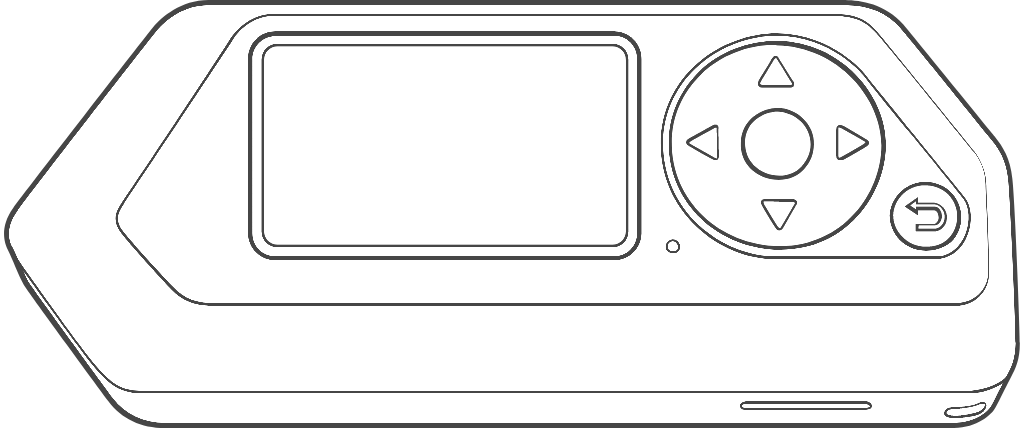
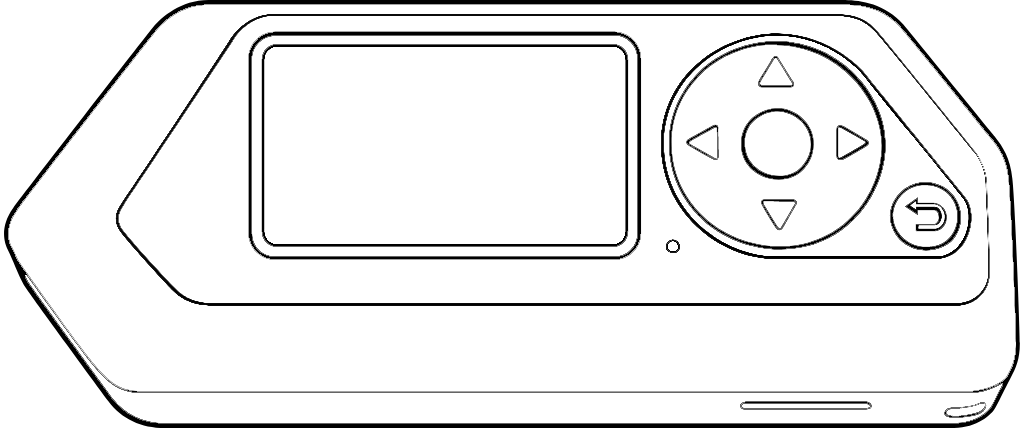
Move release files to the bottom of the page (sticky)
- Removed the white from the flipper line image

diff --git a/.vitepress/theme/components/ReleaseContent.vue b/.vitepress/theme/components/ReleaseContent.vue
@@ -2,13 +2,10 @@
 import MarkdownIt from "markdown-it";
 import { computed } from "vue";
 import type { ReleaseItem } from "../../../_data/releases";
-import { useI18n } from "../composables/useI18n";
 import { replaceIssuesAndMentions } from "../util";
 
 import ReleaseFiles from "./ReleaseFiles.vue";
 import ReleaseHeader from "./ReleaseHeader.vue";
-
-const { tr } = useI18n();
 
 const md = new MarkdownIt({
     html: true,
@@ -41,33 +38,31 @@ const handleSelectRelease = (release: ReleaseItem) => {
 <template>
     <main
         v-if="selectedRelease"
-        class="release-content flex-1 col-span-5 lg:col-span-3 pb-2 rounded-xl border border-vp-divider overflow-clip"
+        class="relative flex-1 col-span-5 lg:col-span-3 lg:pb-16 rounded-[10px] overflow-clip"
     >
-        <ReleaseHeader
-            :selected-release="selectedRelease"
-            :is-current-version="props.isCurrentVersion"
-            @select-release="handleSelectRelease"
-        />
+        <div class="border border-vp-divider rounded-[10px] overflow-clip pb-3">
+            <ReleaseHeader
+                :selected-release="selectedRelease"
+                :is-current-version="props.isCurrentVersion"
+                @select-release="handleSelectRelease"
+            />
 
-        <ReleaseFiles
-            :selected-release="selectedRelease"
-            :is-current-version="props.isCurrentVersion"
-        />
-
-        <div
-            v-if="selectedRelease.changelog"
-            class="mb-8 px-6 sm:px-10 prose prose-gray dark:prose-invert max-w-none"
-        >
             <div
-                class="flex flex-row justify-between items-center pb-2 mb-3 border-b border-vp-divider"
+                v-if="selectedRelease.changelog"
+                class="release-content mb-10 px-6 sm:px-8 prose prose-gray dark:prose-invert max-w-full pt-6"
             >
-                <span
-                    class="text-vp-1 text-[13px] font-semibold py-1 leading-6 tracking-wide uppercase"
-                    >{{ tr("releases_changelog") }}</span
-                >
+                <div class="prose prose-sm dark:prose-invert text-vp-1 max-w-full -mt-6">
+                    <span v-html="parsedChangelog"></span>
+                </div>
             </div>
-            <div class="prose prose-sm dark:prose-invert text-vp-1 max-w-none">
-                <span v-html="parsedChangelog"></span>
+
+            <div class="h-px border-b border-vp-border w-auto mx-6 sm:mx-8"></div>
+
+            <div class="max-w-none files-container lg:sticky lg:bottom-0 -mt-16">
+                <ReleaseFiles
+                    :selected-release="selectedRelease"
+                    :is-current-version="props.isCurrentVersion"
+                />
             </div>
         </div>
     </main>
@@ -81,6 +76,17 @@ const handleSelectRelease = (release: ReleaseItem) => {
 .dark .shadow {
     opacity: 0.25;
 }
+
+.files-container {
+    background-image: linear-gradient(
+        to top,
+        color-mix(in srgb, var(--vp-c-bg-dark) 100%, transparent) 0%,
+        /* color-mix(in srgb, var(--vp-c-bg-dark) 98%, transparent) 50%, */
+            color-mix(in srgb, var(--vp-c-bg-dark) 97%, transparent) 75%,
+        color-mix(in srgb, var(--vp-c-bg-dark) 0%, transparent) 100%
+    );
+}
+
 .release-content {
     position: relative;
     background-color: transparent;
@@ -96,7 +102,7 @@ const handleSelectRelease = (release: ReleaseItem) => {
     background-image: linear-gradient(
         to bottom,
         color-mix(in srgb, var(--vp-c-text-1) 1%, transparent) 0%,
-        color-mix(in srgb, var(--vp-c-bg-soft) 0%, transparent) 100%
+        color-mix(in srgb, var(--vp-c-bg-dark) 0%, transparent) 100%
     );
 }
 

diff --git a/.vitepress/theme/components/ReleaseHeader.vue b/.vitepress/theme/components/ReleaseHeader.vue
@@ -96,10 +96,12 @@ onBeforeUnmount(() => {
 </script>
 
 <template>
-    <div class="flex flex-col pt-0 pb-4 md:pb-8 z-[2] sticky top-[47px] sm:top-11 lg:top-[65px]">
+    <div
+        class="flex flex-col pt-0 z-[2] sticky top-[47px] sm:top-11 lg:top-[64px] bg-vp-dark lg:bg-vp-dark/85 lg:backdrop-blur-md rounded-t-[10px] border-b border-vp-divider"
+    >
         <div ref="dropdownRef" class="relative">
             <div
-                class="dark-blur flex flex-row justify-between items-center border-b border-solid sm:border-b border-vp-divider overflow-hidden px-3 py-2 transition-all duration-200 sm:shadow-sm z-[1000] cursor-pointer min-h-14"
+                class="flex flex-row justify-between items-center overflow-hidden px-3 py-2 transition-all duration-200 sm:shadow-sm z-[1000] cursor-pointer min-h-14"
                 :class="{
                     'md:cursor-pointer': !isDropdownOpen,
                     'sm:rounded-tl-lg sm:rounded-tr-lg': isDropdownOpen,
@@ -134,7 +136,7 @@ onBeforeUnmount(() => {
                 </div>
                 <div class="flex flex-row items-center gap-2">
                     <div
-                        class="flex items-center gap-4 text-sm text-vp-2 rounded-md bg-vp-neutral/[1%] px-2.5 py-1 border border-vp-divider/70 backdrop-blur-sm"
+                        class="flex items-center gap-4 text-sm text-vp-1/80 rounded-md bg-vp-neutral/[1%] px-2.5 py-1 border border-vp-divider/70 backdrop-blur-sm"
                     >
                         <span>{{ selectedRelease?.date }}</span>
                     </div>
@@ -144,10 +146,10 @@ onBeforeUnmount(() => {
             <Transition name="fade-dropdown">
                 <div
                     v-if="isDropdownOpen"
-                    class="lg:hidden absolute top-full left-0 w-full -z-[1] p-[7px] bg-vp-dark shadow-[var(--vp-shadow-3)] backdrop-blur-md border-b border-vp-divider"
+                    class="lg:hidden absolute top-full left-0 w-full z-[1000] p-[7px] bg-vp-dark shadow-[var(--vp-shadow-3)] backdrop-blur-md border-b border-vp-divider"
                 >
                     <div
-                        class="bg-transparent transition-all duration-200 overflow-hidden max-h-[275px] flex flex-col w-full min-w-full"
+                        class="bg-transparent transition-all duration-200 overflow-hidden max-h-[276px] flex flex-col w-full min-w-full"
                         :class="{ 'is-visible': isDropdownOpen }"
                     >
                         <div
@@ -201,16 +203,6 @@ onBeforeUnmount(() => {
 </template>
 
 <style scoped>
-.dark-blur {
-    background-color: color-mix(in srgb, var(--vp-c-bg-elv) 95%, transparent) !important;
-    backdrop-filter: blur(10px) !important;
-}
-
-.dark .dark-blur {
-    background-color: color-mix(in srgb, var(--vp-c-bg-dark) 95%, transparent) !important;
-    backdrop-filter: blur(10px) !important;
-}
-
 .dropdown-menu.is-visible {
     transform: translateY(0);
 }

diff --git a/.vitepress/theme/components/ReleaseFiles.vue b/.vitepress/theme/components/ReleaseFiles.vue
@@ -103,7 +103,7 @@ watch(
 </script>
 
 <template>
-    <div v-if="selectedRelease?.files" class="md:mb-4 px-6 sm:px-10">
+    <div v-if="selectedRelease?.files" class="px-6 sm:px-8 pt-24 pb-3">
         <div
             class="flex flex-row justify-start items-end gap-1.5 pb-2 mb-3 border-b border-vp-divider"
         >
@@ -202,11 +202,11 @@ watch(
             >
                 <template v-for="method in installMethods" :key="method.name">
                     <a
-                        v-if="method.show"
                         :href="method.href"
                         target="_blank"
                         rel="noopener"
-                        class="text-vp-2 sm:text-vp-1 sm:hover:text-vp-2 transition-colors duration-100 no-underline font-medium vp-external-link-icon whitespace-nowrap sm:py-1 sm:pl-3 sm:pr-2.5 sm:border sm:border-vp-divider sm:rounded-full sm:hover:border-vp-brand-1 sm:hover:bg-vp-soft/55"
+                        class="install-method-btn text-vp-2 sm:text-vp-1 sm:hover:text-vp-2 transition-all duration-100 no-underline font-medium vp-external-link-icon whitespace-nowrap sm:py-1 sm:pl-3 sm:pr-2.5 sm:border sm:border-vp-divider sm:rounded-full sm:hover:border-vp-brand-1 sm:hover:bg-vp-soft/55"
+                        :class="{ 'install-method-btn-visible': method.show }"
                     >
                         {{ method.name }}
                     </a>
@@ -224,6 +224,21 @@ watch(
     align-items: center;
     justify-content: center;
     cursor: default !important;
+}
+
+.install-method-btn {
+    opacity: 0;
+    visibility: hidden;
+    position: absolute;
+    pointer-events: none;
+    transition: all 0.3s ease-in-out;
+}
+
+.install-method-btn-visible {
+    opacity: 1;
+    visibility: visible;
+    position: relative;
+    pointer-events: auto;
 }
 
 .dev-files-enter-active,

diff --git a/.vitepress/theme/components/UpdaterDeviceInfo.vue b/.vitepress/theme/components/UpdaterDeviceInfo.vue
@@ -290,7 +290,7 @@ const deviceSections = computed(() => {
 
 <template>
     <div
-        class="device-info-container lg:rounded-tl-xl lg:rounded-bl-xl border-t border-b lg:border border-transparent max-h-[calc(49vh-var(--vp-nav-height))] lg:max-h-full h-full flex flex-col w-full min-w-0 max-w-full overflow-hidden sticky top-[calc(var(--vp-nav-height)+24px)] transition-all duration-200 ease-in-out lg:py-0 bg-vp-dark/55 backdrop-blur-md"
+        class="device-info-container lg:rounded-tl-xl lg:rounded-bl-xl border-t border-b lg:border border-transparent max-h-[calc(49vh-var(--vp-nav-height))] lg:max-h-full h-full flex flex-col w-full min-w-0 max-w-full overflow-hidden sticky top-[calc(var(--vp-nav-height)+24px)] transition-all duration-200 ease-in-out lg:py-0 bg-vp-dark/95"
         :class="{
             '!border !border-vp-brand-1 box-border': isInstallButtonHovered,
             'py-8 pb-12': !isConnected,
@@ -459,7 +459,7 @@ const deviceSections = computed(() => {
     background-size: contain;
     background-position: center;
     background-repeat: no-repeat;
-    opacity: 0.085;
+    opacity: 0.065;
     filter: saturate(0);
     mix-blend-mode: lighten;
     z-index: -1;
@@ -467,7 +467,7 @@ const deviceSections = computed(() => {
 }
 
 .dark .device-info-container:before {
-    opacity: 0.045;
+    opacity: 0.03;
     filter: saturate(0) invert(1);
 }
 
@@ -476,10 +476,10 @@ const deviceSections = computed(() => {
 }
 
 .device-info-container[data-hovered="true"]:before {
-    opacity: 0.15;
+    opacity: 0.095;
 }
 .dark .device-info-container[data-hovered="true"]:before {
-    opacity: 0.055;
+    opacity: 0.035;
 }
 
 .device-info-container:after {

diff --git a/.vitepress/theme/components/UpdaterChangelog.vue b/.vitepress/theme/components/UpdaterChangelog.vue
@@ -104,7 +104,7 @@ const releaseHref = computed(() => {
 
 <template>
     <div
-        class="changelog-content rounded-xl group mx-5"
+        class="changelog-content rounded-[10px] group mx-5"
         :class="{
             'max-h-[calc(100vh-var(--vp-nav-height)-24px)]': windowWidth < 1024,
             'h-auto': isClosed,
@@ -112,7 +112,7 @@ const releaseHref = computed(() => {
         }"
     >
         <div
-            class="border rounded-xl border-vp-divider bg-vp-dark/90 flex flex-col overflow-hidden relative dark:bg-neutral-950/80 mb-5"
+            class="border rounded-[10px] border-vp-divider bg-vp-elv/95 flex flex-col overflow-hidden relative mb-5"
             :class="{
                 'changelog-expanded mt-5': isExpanded,
                 'flex-1': !isClosed,
@@ -191,11 +191,11 @@ const releaseHref = computed(() => {
             </div>
 
             <div
-                class="absolute top-14 left-0 right-0 h-20 bg-gradient-to-b from-vp-dark dark:from-neutral-950/80 to-transparent pointer-events-none z-10 mr-4 opacity-0 transition-opacity duration-300"
+                class="absolute top-14 left-0 right-0 h-20 bg-gradient-to-b from-vp-elv/95 dark:from-vp-elv/95 to-transparent pointer-events-none z-10 mr-4 opacity-0 transition-opacity duration-300"
                 :class="{ 'opacity-100': isAccessible && !arrivedState.top && !isClosed }"
             ></div>
             <div
-                class="absolute bottom-0 left-0 right-0 h-20 bg-gradient-to-t from-vp-dark dark:from-neutral-950/80 to-transparent pointer-events-none z-10 mr-4 opacity-0 transition-opacity duration-300"
+                class="absolute bottom-0 left-0 right-0 h-20 bg-gradient-to-t from-vp-elv/95 dark:from-vp-elv/95 to-transparent pointer-events-none z-10 mr-4 opacity-0 transition-opacity duration-300"
                 :class="{ 'opacity-100': isAccessible && !arrivedState.bottom && !isClosed }"
             ></div>
 

diff --git a/.vitepress/theme/components/UpdaterLogs.vue b/.vitepress/theme/components/UpdaterLogs.vue
@@ -145,7 +145,7 @@ onMounted(() => {
 
 <template>
     <div
-        class="bg-vp-dark dark:bg-neutral-950/80 overflow-hidden group flex flex-col mx-5 rounded-xl border border-vp-divider"
+        class="bg-vp-dark dark:bg-neutral-950/80 overflow-hidden group flex flex-col mx-5 rounded-[10px] border border-vp-divider"
         :class="{
             'h-full': !props.changelogIsOpen && props.isExpanded,
             'border-b border-vp-divider': !props.changelogIsOpen && !props.isExpanded,
@@ -196,7 +196,7 @@ onMounted(() => {
                     </span>
                 </div>
                 <div class="flex items-center gap-1 flex-shrink-0">
-                    <Tooltip v-if="logs.length > 0" :delay="400" :z-index="9999">
+                    <Tooltip v-if="logs.length > 0" :delay="0" :z-index="9999">
                         <button
                             class="!text-vp-3 hover:!text-vp-brand-1 transition-all duration-100 ease-out flex items-center justify-center w-8 h-8 rounded-lg cursor-pointer icon-button-opacity group-hover:opacity-100"
                             :class="{
@@ -211,7 +211,7 @@ onMounted(() => {
                         </button>
                         <template #content>{{ tr("updater_clear_logs") }}</template>
                     </Tooltip>
-                    <Tooltip v-if="logs.length > 0" :delay="400" :z-index="9999">
+                    <Tooltip v-if="logs.length > 0" :delay="0" :z-index="9999">
                         <button
                             class="!text-vp-3 hover:!text-vp-brand-1 transition-all duration-100 ease-out flex items-center justify-center w-8 h-8 rounded-lg cursor-pointer icon-button-opacity group-hover:opacity-100"
                             :class="{

diff --git a/.vitepress/theme/components/FileGrid.vue b/.vitepress/theme/components/FileGrid.vue
@@ -1,8 +1,8 @@
 <script setup lang="ts">
 import { useWindowSize } from "@vueuse/core";
 import { ref } from "vue";
-import { downloadFile } from "../util";
 import type { DevbuildFile, MainlineFile } from "../../../_data/releases";
+import { downloadFile } from "../util";
 
 type FirmwareFile = DevbuildFile | MainlineFile;
 
@@ -95,7 +95,7 @@ const getButtonScale = (file: FirmwareFile) => {
         >
             <div
                 :class="[
-                    'py-2 pr-2 text-vp-3 group-hover:text-vp-1 text-sm font-medium rounded-md transition-all duration-100 flex items-center justify-center flex-shrink-0 select-none',
+                    'py-2 pr-2 text-vp-brand-1/60 saturate-[70%] group-hover:text-vp-1 text-sm font-medium rounded-md transition-all duration-100 flex items-center justify-center flex-shrink-0 select-none',
                 ]"
             >
                 <v-icon :name="getButtonIcon(file)" scale="0.9" />

diff --git a/.vitepress/theme/components/UpdaterPage.vue b/.vitepress/theme/components/UpdaterPage.vue
@@ -714,7 +714,7 @@ onMounted(async () => {
 
                                     <div
                                         v-else-if="supportsSerialPort()"
-                                        class="w-full outline-dashed outline-vp-divider border-2 border-vp-dark rounded-xl flex items-center justify-center bg-vp-dark/60 dark:bg-vp-bg/70 cursor-pointer pt-6 pb-7 px-6 backdrop-blur-md relative z-10"
+                                        class="w-full outline-dashed outline-vp-divider border-2 border-vp-dark rounded-[10px] flex items-center justify-center bg-vp-dark/60 dark:bg-vp-bg/70 cursor-pointer pt-6 pb-7 px-6 backdrop-blur-md relative z-10"
                                         :class="{
                                             'border-vp-brand-1 bg-vp-brand-soft outline-vp-border/80':
                                                 isOverDropZone,

diff --git a/.vitepress/theme/util.ts b/.vitepress/theme/util.ts
@@ -14,7 +14,7 @@ export function supportsSerialPort(): boolean {
 }
 
 export function devMode() {
-    if (typeof window === "undefined") return false;
+    if (typeof window === "undefined") return true;
     const host = window.location.hostname;
     return host === "localhost" || host === "127.0.0.1";
 }